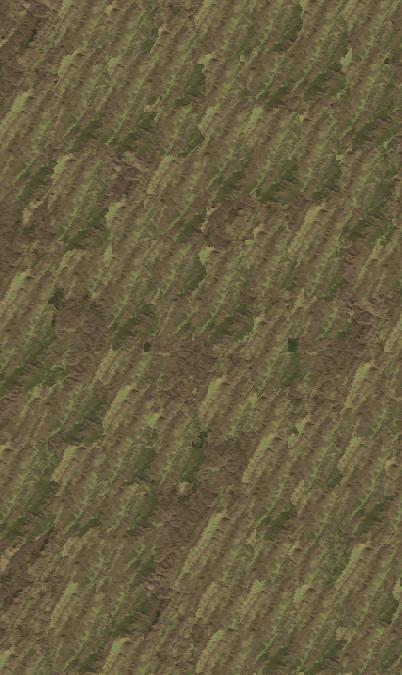
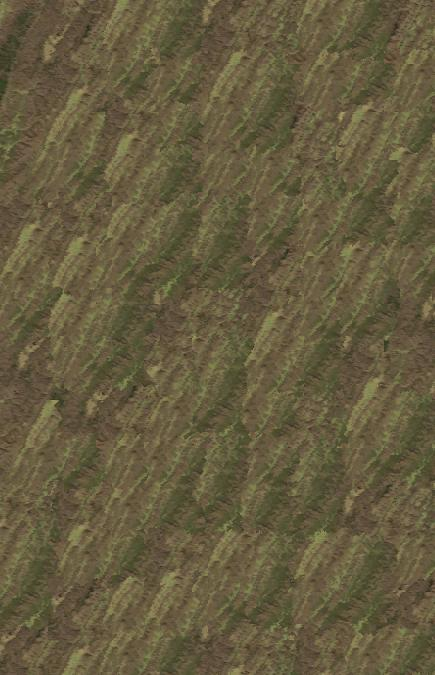
Changed shrinking to average pixels

Changed region(s): [[0.0, 0.0, 1.0, 1.0]]

diff --git a/LoadGridFloatSmaller.m b/LoadGridFloatSmaller.m
@@ -1,51 +1,56 @@
 function LoadGridFloatSmaller()
-%     pathFlt = 'C:\Users\Jonathan\Desktop\n47w122\floatn47w122_1.flt';
-%     pathHDR = 'C:\Users\Jonathan\Desktop\n47w122\floatn47w122_1.hdr';
     terrain = imread('Terrain', 'png');
     pathFlt = 'C:\Users\Jonathan\Desktop\Graphics Research\n39w080\floatn39w080_1.flt';
     pathHDR = 'C:\Users\Jonathan\Desktop\Graphics Research\n39w080\floatn39w080_1.hdr';
     % How much to shrink the height field by
     shrink = 15;
-%     pathFlt = 'C:\Users\Jonathan\Desktop\n45w111\floatn45w111_13.flt';
-%     pathHDR = 'C:\Users\Jonathan\Desktop\n45w111\floatn45w111_13.hdr';
-%     % How much to shrink the height field by
-%     shrink = 100;
     % Read in height field dimensions
     hdr = fopen(pathHDR);
     dim = fscanf(hdr, '%*s%d');
     fclose(hdr);
     % Read in height field
     ftl = fopen(pathFlt);
-    a = fread(ftl, dim(1)*dim(2), 'float32', 'ieee-le');
+    a = fread(ftl, dim(1) * dim(2), 'float32', 'ieee-le');
     fclose(ftl);
     i = reshape(a, [dim(1), dim(2)]);
     clear a;    
     % Shrink height field by specified amount
-    temp = zeros(int32(dim(1)/shrink), int32(dim(2)/shrink));
-    for r = 1:int32(dim(1)/shrink)
-        for c = 1:int32(dim(2)/shrink)
-            x = r * shrink;
-            if(x > dim(1))
-                x = dim(1);
-            end
-            y = c * shrink;
-            if(y > dim(2))
-                y = dim(2);
-            end
-            temp(r, c) = i(x, y); 
-        end
+    temp = zeros(int32(dim(1) / shrink), int32(dim(2) / shrink));
+    r = 1;
+    % Shrink by averaging the pixels
+    while r <= dim(1)
+       c = 1;
+       if r + shrink > dim(1)
+           rowLimit = dim(1);
+       else
+           rowLimit = r + shrink;
+       end
+       while c <= dim(2)
+           if c + shrink > dim(2)
+               colLimit = dim(2);
+           else
+               colLimit = c + shrink;
+           end
+           s = 0.0;
+           for row = r : rowLimit
+                s = s + sum(i(row, c : colLimit));
+           end
+           temp(int32(r / shrink) + 1,int32(c / shrink) + 1) = s / ((colLimit - c) * (rowLimit - r));
+           c = c + shrink;
+       end
+       r = r + shrink;
     end
     i = temp;
-    dim = [int32(dim(1)/shrink), int32(dim(2)/shrink)];    
-  % Grab specific section from height field
-	temp = zeros(150, dim(2));
-    for r = 1:150
-        temp(r, :) = i(r, 1:dim(2)); 
+    dim = [int32(dim(1) / shrink), int32(dim(2) / shrink)];
+    % Grab specific section from height field
+    temp = zeros(int32(dim(1) / 1.5), dim(2));
+    for r = 1 : int32(dim(1) / 1.5)
+        temp(r, :) = i(r, 1 : dim(2));
     end
-	i = temp;
-	dim = [dim(2), 150];   
+    i = temp;
     % Normalize data
     i = transpose(i);
+    dim = size(i);
     minimum = min(i(:));
     maxim = max(i(:));
     i = i - minimum;
@@ -91,13 +96,18 @@ function LoadGridFloatSmaller()
        end
     end
     sprintf('Normal Map Generation complete!')
+    % Normalize the data
+    minimum = min(i(:));
+    maxim = max(i(:));
+    i = i - minimum;
+    i = i.*(1/(maxim-minimum));
+    % Write out height map
+    imwrite(i,'Height_Map.png')
     % Write out normal map
     imwrite(slopes,'Normal_Map.png')
-    % Normalize the data
-    minimum = min(slopes(:));
-    maxim = max(slopes(:));
-    slopes = slopes - minimum;
-    slopes = slopes.*(50/(maxim-minimum));
+    % Normalize the data for figure display
+    i = i.*64;
+    slopes = slopes.*64;
     % Generate figures
     figure('Name', 'Height_Map')
     image(i)

diff --git a/PatchFindingAndPlacement.m b/PatchFindingAndPlacement.m
@@ -116,7 +116,7 @@ function PatchFindingAndPlacement(patchDim, overlapDim, originalImage, colorMap)
     image(generatedNormalMap)
     figure('Name', 'Generated_Normal_Map_With_Seams')
     image(generatedNormalMapWithSeams)
-    generatedNormalMap = generatedNormalMap.*(1/50);
+    generatedNormalMap = generatedNormalMap.*(1/64);
     imwrite(generatedNormalMap,'Generated_Normal_Map.png')
     % Use metaData to construct a color version of the generated terrain
     color = uint8(zeros(finalDimensions(1), finalDimensions(2), 3));
